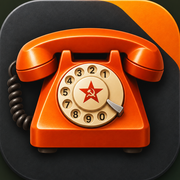
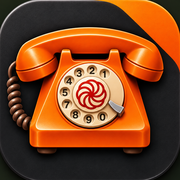
Приложение для iPhone (тестовая сборка без подписи) и новый логотип
Claude-Session: https://claude.ai/code/session_01PzqoFWrueDoWokYBzoEgXn

diff --git a/ios/Heraxos/WebViewController.swift b/ios/Heraxos/WebViewController.swift
@@ -1,0 +1,112 @@
+import UIKit
+import WebKit
+
+/// Heraxos внутри приложения: тот же интерфейс, что на сайте, плюс нативное управление звуком звонка.
+final class WebViewController: UIViewController, WKUIDelegate, WKNavigationDelegate, WKScriptMessageHandler {
+
+    private var web: WKWebView!
+
+    override var preferredStatusBarStyle: UIStatusBarStyle { .lightContent }
+
+    override func loadView() {
+        let cfg = WKWebViewConfiguration()
+        cfg.allowsInlineMediaPlayback = true
+        cfg.mediaTypesRequiringUserActionForPlayback = []
+        cfg.websiteDataStore = .default()
+
+        // Мост к веб-приложению (тот же интерфейс, что у Android-версии)
+        let shim = """
+        window.HeraxosPlatform = 'ios';
+        window.HeraxosAndroid = {
+          setSession: function(t, l) { window.webkit.messageHandlers.hx.postMessage({a: 'session', l: String(l)}); },
+          clearSession: function() { window.webkit.messageHandlers.hx.postMessage({a: 'clear'}); },
+          setAudioRoute: function(r) { window.webkit.messageHandlers.hx.postMessage({a: 'route', r: String(r)}); }
+        };
+        """
+        cfg.userContentController.addUserScript(WKUserScript(source: shim, injectionTime: .atDocumentStart, forMainFrameOnly: true))
+        cfg.userContentController.add(self, name: "hx")
+
+        web = WKWebView(frame: .zero, configuration: cfg)
+        web.uiDelegate = self
+        web.navigationDelegate = self
+        web.isOpaque = false
+        web.backgroundColor = Theme.bg
+        web.scrollView.backgroundColor = Theme.bg
+        web.scrollView.contentInsetAdjustmentBehavior = .never
+        web.scrollView.bounces = false
+        web.allowsBackForwardNavigationGestures = false
+        if #available(iOS 16.4, *) { web.isInspectable = true }
+        view = web
+    }
+
+    override func viewDidLoad() {
+        super.viewDidLoad()
+        web.load(URLRequest(url: SERVER))
+    }
+
+    // Микрофон и камера для нашего сервера — без лишних вопросов (системный запрос iOS показывает один раз)
+    @available(iOS 15.0, *)
+    func webView(_ webView: WKWebView, requestMediaCapturePermissionFor origin: WKSecurityOrigin,
+                 initiatedByFrame frame: WKFrameInfo, type: WKMediaCaptureType,
+                 decisionHandler: @escaping (WKPermissionDecision) -> Void) {
+        decisionHandler(origin.host == SERVER.host ? .grant : .prompt)
+    }
+
+    // Внешние ссылки — в Safari
+    func webView(_ webView: WKWebView, decidePolicyFor navigationAction: WKNavigationAction,
+                 decisionHandler: @escaping (WKNavigationActionPolicy) -> Void) {
+        if let u = navigationAction.request.url, let scheme = u.scheme, ["http", "https"].contains(scheme), u.host != SERVER.host {
+            UIApplication.shared.open(u)
+            decisionHandler(.cancel)
+            return
+        }
+        decisionHandler(.allow)
+    }
+
+    func webViewWebContentProcessDidTerminate(_ webView: WKWebView) { webView.reload() }
+
+    func webView(_ webView: WKWebView, didFail navigation: WKNavigation!, withError error: Error) { retryLater() }
+    func webView(_ webView: WKWebView, didFailProvisionalNavigation navigation: WKNavigation!, withError error: Error) { retryLater() }
+    private func retryLater() {
+        DispatchQueue.main.asyncAfter(deadline: .now() + 3) { [weak self] in
+            guard let self, self.web.url == nil || self.web.isLoading == false else { return }
+            if self.web.url == nil { self.web.load(URLRequest(url: SERVER)) }
+        }
+    }
+
+    // ---- мост из JS ----
+    func userContentController(_ userContentController: WKUserContentController, didReceive message: WKScriptMessage) {
+        guard let d = message.body as? [String: Any], let a = d["a"] as? String else { return }
+        switch a {
+        case "route": AudioRoute.set(d["r"] as? String ?? "off")
+        case "session": UserDefaults.standard.set(d["l"] as? String, forKey: "login")
+        case "clear": UserDefaults.standard.removeObject(forKey: "login")
+        default: break
+        }
+    }
+
+    // ---- alert / confirm / prompt из веб-приложения ----
+    func webView(_ webView: WKWebView, runJavaScriptAlertPanelWithMessage message: String,
+                 initiatedByFrame frame: WKFrameInfo, completionHandler: @escaping () -> Void) {
+        let ac = UIAlertController(title: nil, message: message, preferredStyle: .alert)
+        ac.addAction(UIAlertAction(title: "OK", style: .default) { _ in completionHandler() })
+        present(ac, animated: true)
+    }
+
+    func webView(_ webView: WKWebView, runJavaScriptConfirmPanelWithMessage message: String,
+                 initiatedByFrame frame: WKFrameInfo, completionHandler: @escaping (Bool) -> Void) {
+        let ac = UIAlertController(title: nil, message: message, preferredStyle: .alert)
+        ac.addAction(UIAlertAction(title: "Отмена", style: .cancel) { _ in completionHandler(false) })
+        ac.addAction(UIAlertAction(title: "OK", style: .default) { _ in completionHandler(true) })
+        present(ac, animated: true)
+    }
+
+    func webView(_ webView: WKWebView, runJavaScriptTextInputPanelWithPrompt prompt: String, defaultText: String?,
+                 initiatedByFrame frame: WKFrameInfo, completionHandler: @escaping (String?) -> Void) {
+        let ac = UIAlertController(title: nil, message: prompt, preferredStyle: .alert)
+        ac.addTextField { $0.text = defaultText }
+        ac.addAction(UIAlertAction(title: "Отмена", style: .cancel) { _ in completionHandler(nil) })
+        ac.addAction(UIAlertAction(title: "OK", style: .default) { _ in completionHandler(ac.textFields?.first?.text) })
+        present(ac, animated: true)
+    }
+}

diff --git a/ios/Heraxos/AudioRoute.swift b/ios/Heraxos/AudioRoute.swift
@@ -1,0 +1,29 @@
+import AVFoundation
+import UIKit
+
+/// «earpiece» — разговорный динамик (экран гаснет у уха), «speaker» — громкая связь, «off» — звонок закончен.
+enum AudioRoute {
+    static func set(_ route: String) {
+        DispatchQueue.main.async { apply(route) }
+        // WebKit сам настраивает аудиосессию при старте микрофона — повторяем выбор чуть позже
+        if route != "off" { DispatchQueue.main.asyncAfter(deadline: .now() + 0.8) { apply(route) } }
+    }
+
+    private static func apply(_ route: String) {
+        let s = AVAudioSession.sharedInstance()
+        if route == "off" {
+            try? s.overrideOutputAudioPort(.none)
+            UIDevice.current.isProximityMonitoringEnabled = false
+            UIApplication.shared.isIdleTimerDisabled = false
+            return
+        }
+        try? s.setCategory(.playAndRecord, mode: .voiceChat, options: [.allowBluetooth, .allowBluetoothA2DP])
+        try? s.setActive(true)
+        let speaker = route == "speaker"
+        try? s.overrideOutputAudioPort(speaker ? .speaker : .none)
+        let headsetTypes: [AVAudioSession.Port] = [.headphones, .bluetoothHFP, .bluetoothA2DP, .bluetoothLE, .usbAudio, .carAudio]
+        let headset = s.currentRoute.outputs.contains { headsetTypes.contains($0.portType) }
+        UIDevice.current.isProximityMonitoringEnabled = !speaker && !headset
+        UIApplication.shared.isIdleTimerDisabled = true
+    }
+}

diff --git a/server/public/app.js b/server/public/app.js
@@ -1,5 +1,5 @@
 // Heraxos — клиент
-const APP_VERSION = '4';
+const APP_VERSION = '5';
 const $ = (id) => document.getElementById(id);
 const esc = (s) => String(s).replace(/[&<>"']/g, (c) => ({ '&': '&amp;', '<': '&lt;', '>': '&gt;', '"': '&quot;', "'": '&#39;' }[c]));
 let token = localStorage.getItem('hx_token'), me = localStorage.getItem('hx_me');
@@ -390,7 +390,7 @@ $('txt').addEventListener('input', () => {
 const isIOS = /iPhone|iPad|iPod/.test(navigator.userAgent) || (navigator.platform === 'MacIntel' && navigator.maxTouchPoints > 1);
 const standalone = matchMedia('(display-mode: standalone)').matches || navigator.standalone;
 function pushState() {
-  if (AND) { $('pushState').textContent = 'Звонки и сообщения приходят через приложение Heraxos'; return; }
+  if (AND) { $('pushState').textContent = window.HeraxosPlatform === 'ios' ? 'Тестовая версия: звонки приходят, пока приложение открыто' : 'Звонки и сообщения приходят через приложение Heraxos'; return; }
   const s = !('PushManager' in window) ? (isIOS && !standalone ? 'Сначала добавьте на экран «Домой»' : 'Не поддерживается этим браузером')
     : Notification.permission === 'granted' ? 'Включены' : Notification.permission === 'denied' ? 'Запрещены в настройках браузера' : 'Нажмите, чтобы включить';
   $('pushState').textContent = s;

diff --git a/ios/Heraxos/AppDelegate.swift b/ios/Heraxos/AppDelegate.swift
@@ -1,0 +1,22 @@
+import UIKit
+
+/// Адрес сервера Heraxos
+let SERVER = URL(string: "https://82-26-86-235.sslip.io:8445/")!
+
+@main
+final class AppDelegate: UIResponder, UIApplicationDelegate {
+    var window: UIWindow?
+
+    func application(_ application: UIApplication,
+                     didFinishLaunchingWithOptions launchOptions: [UIApplication.LaunchOptionsKey: Any]?) -> Bool {
+        window = UIWindow(frame: UIScreen.main.bounds)
+        window?.backgroundColor = Theme.bg
+        window?.rootViewController = WebViewController()
+        window?.makeKeyAndVisible()
+        return true
+    }
+}
+
+enum Theme {
+    static let bg = UIColor(red: 0.055, green: 0.059, blue: 0.067, alpha: 1)
+}

diff --git a/server/public/index.html b/server/public/index.html
@@ -12,7 +12,7 @@
 <meta name="apple-mobile-web-app-status-bar-style" content="black-translucent">
 <meta name="apple-mobile-web-app-title" content="Heraxos">
 <meta name="theme-color" content="#0e0f11">
-<link rel="stylesheet" href="/style.css?v=4">
+<link rel="stylesheet" href="/style.css?v=5">
 </head>
 <body>
 <svg width="0" height="0" style="position:absolute">
@@ -159,7 +159,7 @@
 
 <div id="toast"></div>
 <audio id="ring" src="/ring.wav" loop preload="auto"></audio>
-<script src="/crypto.js?v=4"></script>
-<script src="/app.js?v=4"></script>
+<script src="/crypto.js?v=5"></script>
+<script src="/app.js?v=5"></script>
 </body>
 </html>

diff --git a/server/server.js b/server/server.js
@@ -51,7 +51,7 @@ app.set('trust proxy', false);
 app.use(express.json({ limit: '256kb' }));
 app.use((req, res, next) => { res.set({ 'X-Content-Type-Options': 'nosniff', 'Referrer-Policy': 'no-referrer', 'X-Frame-Options': 'DENY' }); next(); });
 // Версия веб-приложения: устаревшие клиенты получают команду перезагрузиться
-const APP_VERSION = '4';
+const APP_VERSION = '5';
 app.use(express.static(path.join(__dirname, 'public'), { maxAge: 0, etag: true, setHeaders: (res) => res.set('Cache-Control', 'no-cache') }));
 
 const attempts = new Map();
